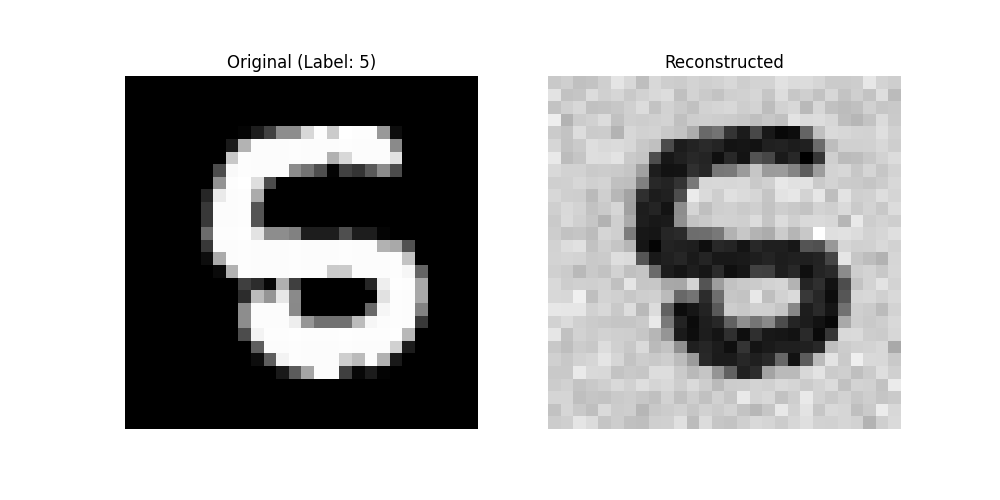
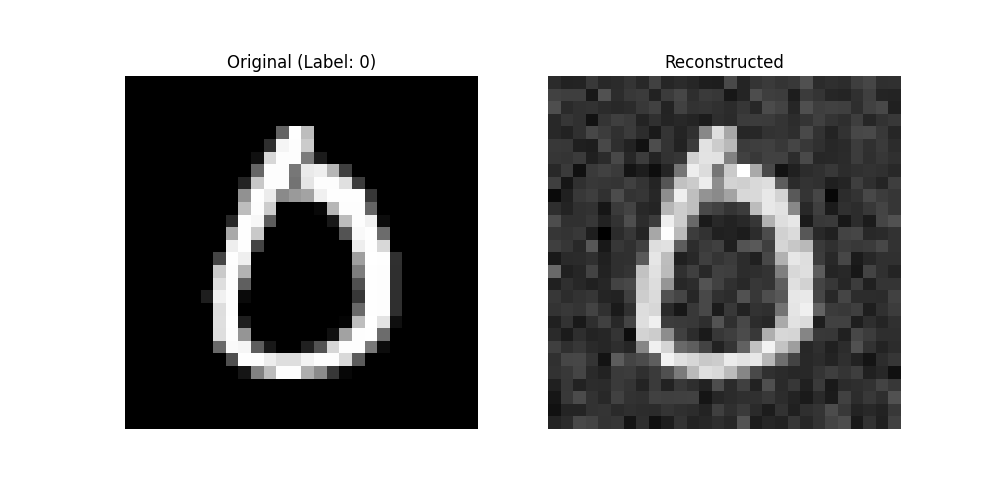
mdlg works better

diff --git a/server.py b/server.py
@@ -128,16 +128,23 @@ class SecureFedAvg(FedAvg):
 
     def _reconstruct_data(self, gradients: List[np.ndarray], attack_params: Dict) -> np.ndarray:
         attack_type = attack_params.get("type", "dlg")
-        
+        print(f"[Attack] Attempting reconstruction using '{attack_type}' method.")
+
         if attack_type == "dlg":
-            # The gradients list is already what we need
             return dlg_attack(
                 gradients=gradients,
                 input_shape=(1, 1, 28, 28),
                 lr=attack_params.get("attack_lr", 0.1),
                 iterations=attack_params.get("iterations", 1000)
             )
-        # ... (mDLG and other attacks remain the same)
+        elif attack_type == "mdlg":
+             # mDLG only uses the first gradient (fc1.weight)
+            return mdlg_attack(
+                gradients=[gradients[0]], 
+                input_shape=(1, 1, 28, 28),
+                lr=attack_params.get("attack_lr", 0.01),
+                iterations=attack_params.get("iterations", 500)
+            )
         else:
             print(f"Unknown attack type: {attack_type}")
             return None

diff --git a/attacks/gradient_inversion.py b/attacks/gradient_inversion.py
@@ -1,7 +1,7 @@
 # attacks/gradient_inversion.py
 import torch
 import numpy as np
-from typing import Tuple
+from typing import Tuple, List
 
 # In attacks/gradient_inversion.py
 
@@ -66,6 +66,7 @@ def dlg_attack(
 
     # Return the optimized data
     return dummy_data.detach().numpy()
+
 
 def mdlg_attack(gradients: list, input_shape: Tuple[int],
                 lr: float = 0.01, iterations: int = 500) -> np.ndarray:
